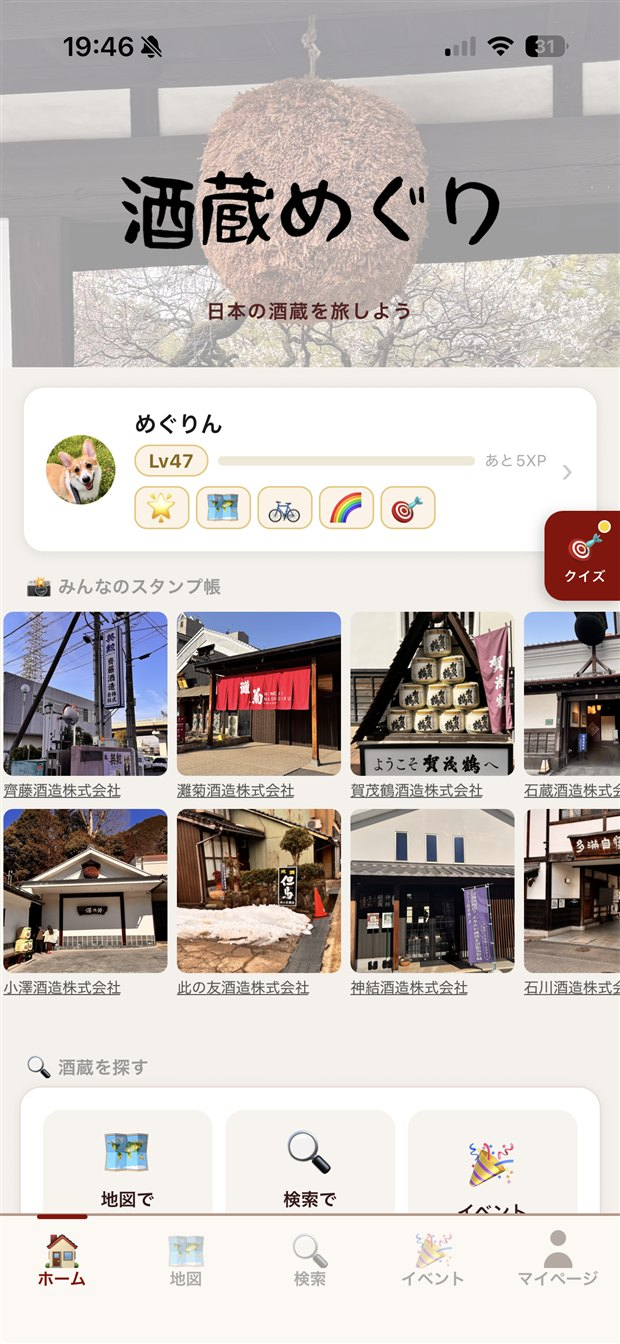
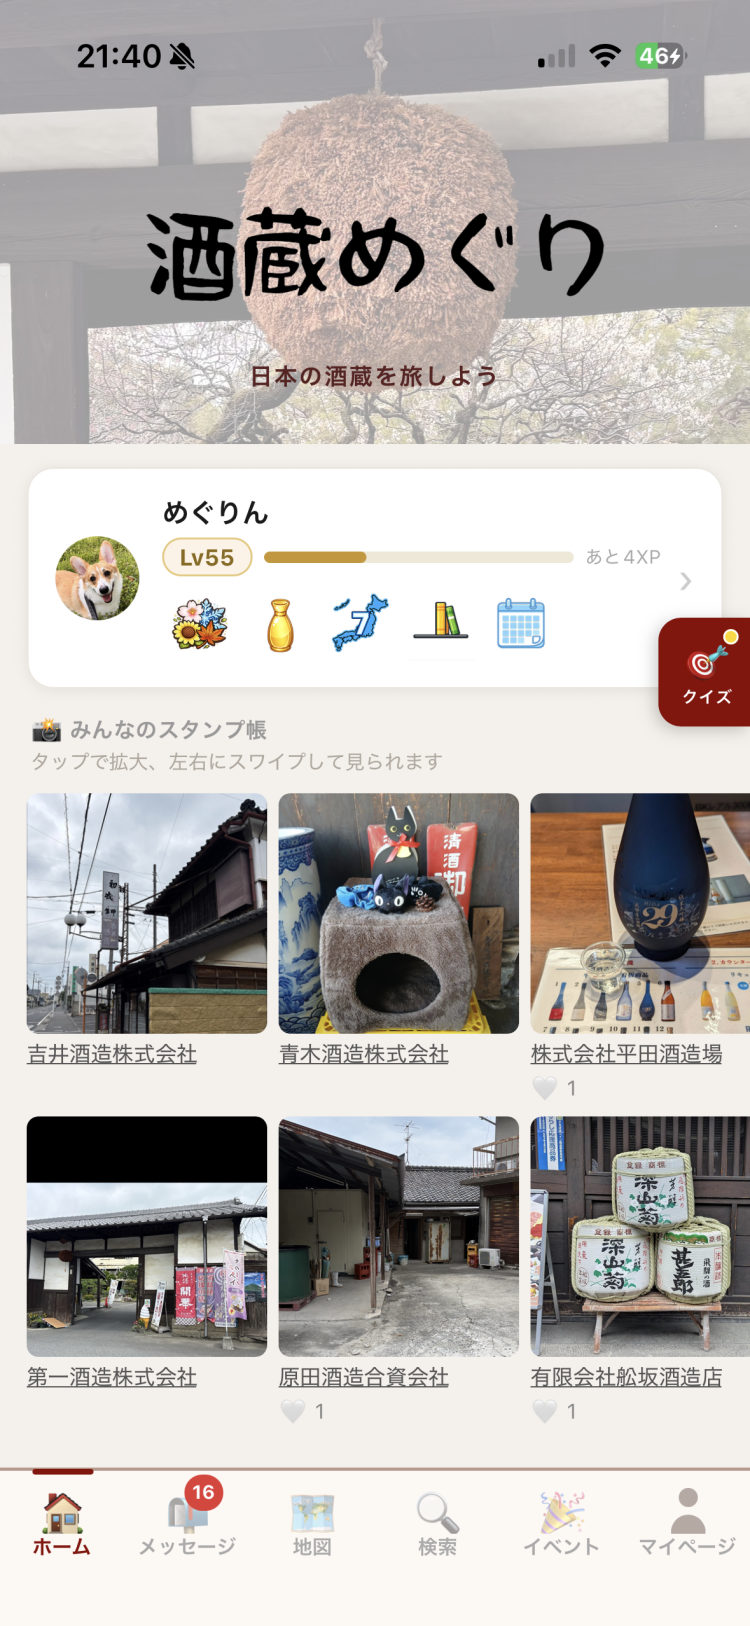
Add files via upload

diff --git a/index.html b/index.html
@@ -218,15 +218,16 @@
 <section class="shots-section">
   <div class="wrap">
     <h2>アプリの画面</h2>
-    <p class="lead">地図・スタンプ帳・営業情報・記録まで、これひとつで。</p>
+    <p class="lead">地図・スタンプ帳・イベント・レベルアップまで、これひとつで。</p>
   </div>
   <div class="shots-scroll">
     <div class="shots-track">
       <figure class="shot"><img src="./shot-home.jpg" alt="酒蔵めぐり ホーム画面" loading="lazy" /><figcaption>ホーム</figcaption></figure>
       <figure class="shot"><img src="./shot-map.jpg" alt="酒蔵マップ" loading="lazy" /><figcaption>酒蔵マップ</figcaption></figure>
       <figure class="shot"><img src="./shot-stamp.jpg" alt="写真スタンプ帳" loading="lazy" /><figcaption>スタンプ帳</figcaption></figure>
-      <figure class="shot"><img src="./shot-info.jpg" alt="酒蔵の営業情報" loading="lazy" /><figcaption>営業情報</figcaption></figure>
-      <figure class="shot"><img src="./shot-record.jpg" alt="訪問記録と統計" loading="lazy" /><figcaption>訪問記録</figcaption></figure>
+      <figure class="shot"><img src="./shot-event.jpg" alt="酒蔵イベント情報の一覧" loading="lazy" /><figcaption>イベント情報</figcaption></figure>
+      <figure class="shot"><img src="./shot-badge.jpg" alt="レベルと達成バッジ" loading="lazy" /><figcaption>レベル・バッジ</figcaption></figure>
+      <figure class="shot"><img src="./shot-quiz.jpg" alt="毎日日本酒クイズ" loading="lazy" /><figcaption>毎日クイズ</figcaption></figure>
     </div>
   </div>
 </section>
@@ -235,7 +236,7 @@
 <div class="cta">
   <div class="wrap">
     <h2>さあ、最初の一蔵へ。</h2>
-    <p>全国1,400以上の酒蔵が、あなたの旅を待っています。</p>
+    <p>全国1,300以上の酒蔵が、あなたの旅を待っています。</p>
     <div class="badges">
       <a class="badge" href="https://apps.apple.com/jp/app/id6763684964" aria-label="App Storeでダウンロード">
         <svg viewBox="0 0 24 24"><path d="M16.5 1.5c.1 1-.3 2-1 2.8-.7.8-1.8 1.4-2.8 1.3-.1-1 .4-2 1-2.7.7-.8 1.9-1.4 2.8-1.4zM20 17.3c-.5 1.2-.8 1.7-1.5 2.7-1 1.5-2.4 3.3-4.1 3.3-1.5 0-1.9-1-3.9-1-2 0-2.5 1-3.9 1-1.7 0-3-1.7-4-3.1C-.2 16.8-.5 11.4 1.7 8.6 3 7 4.7 6.1 6.3 6.1c1.7 0 2.7 1 4.1 1 1.3 0 2.1-1 4.1-1 1.4 0 3 .8 4.1 2.2-3.6 2-3 7.1 1.3 9z"/></svg>
